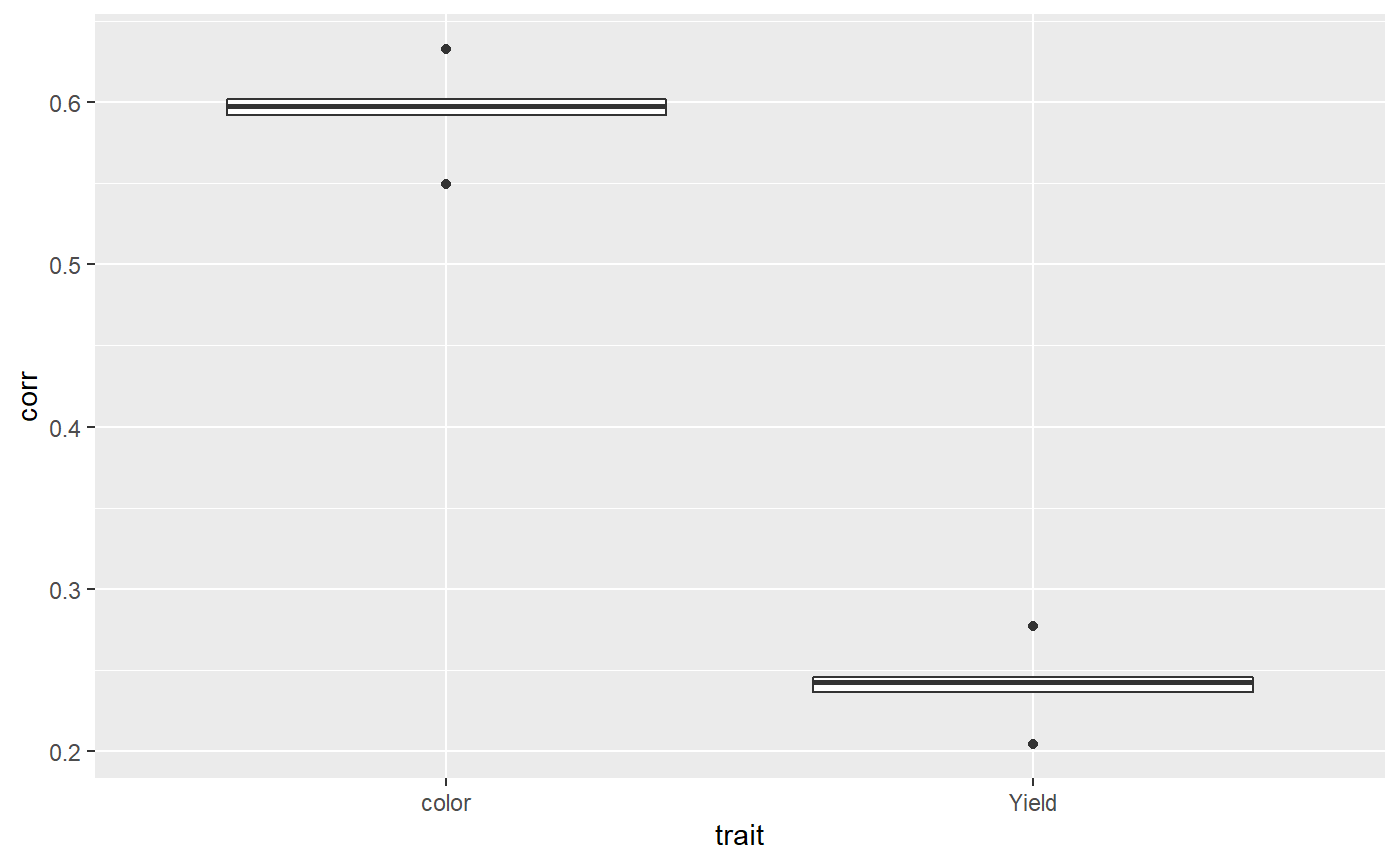
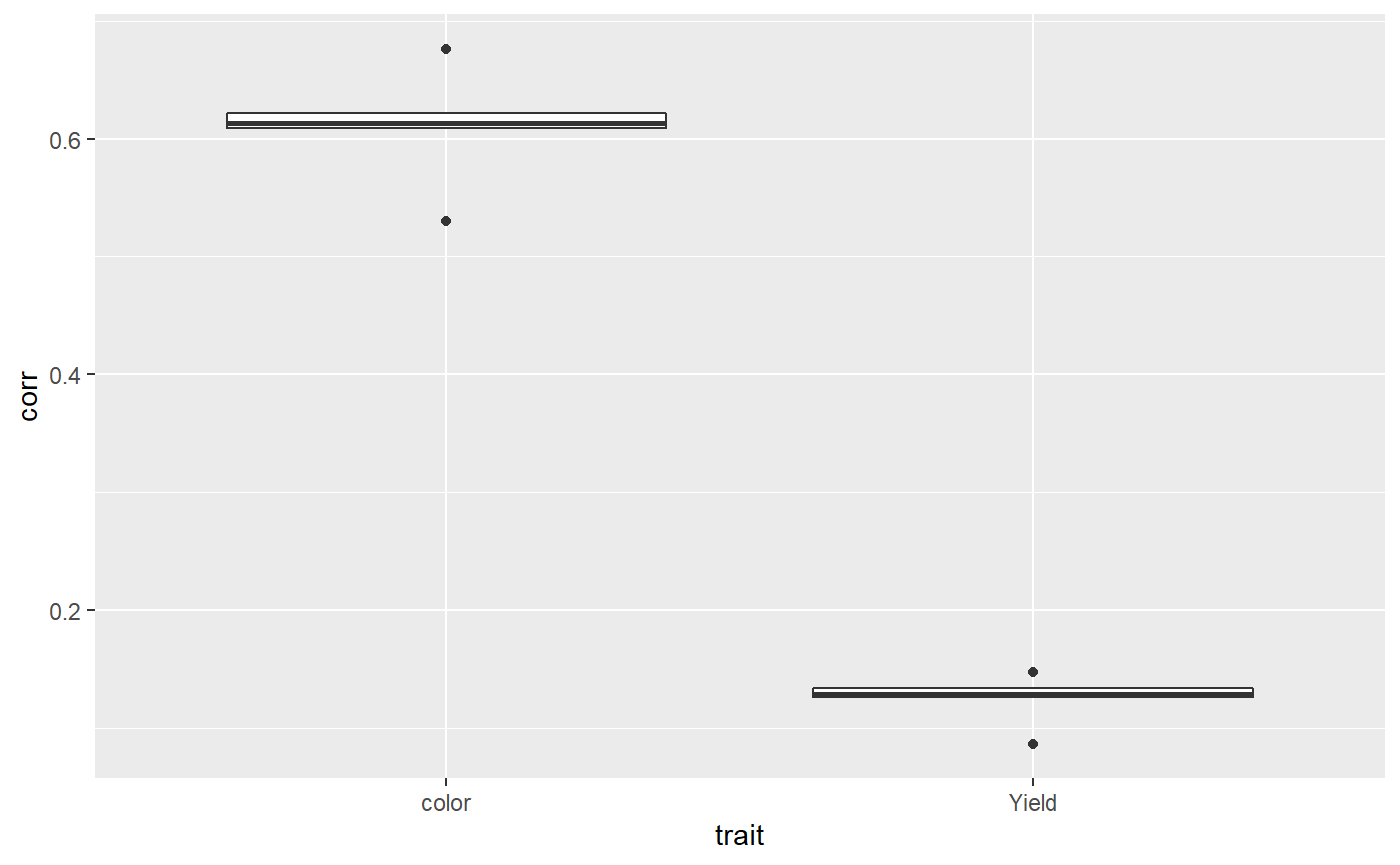
update

diff --git a/docs/articles/my-vignette.html b/docs/articles/my-vignette.html
@@ -61,7 +61,7 @@
   </a>
   <ul class="dropdown-menu" role="menu">
 <li>
-      <a href="../articles/introduction.html">introduction</a>
+      <a href="../articles/introduction.html">Shiny</a>
     </li>
     <li>
       <a href="../articles/my-vignette.html">How to start</a>
@@ -151,16 +151,16 @@
 <a class="sourceLine" id="cb5-8" title="8"><span class="co"># Yield  == 362</span></a>
 <a class="sourceLine" id="cb5-9" title="9"><span class="co"># </span></a>
 <a class="sourceLine" id="cb5-10" title="10"><span class="co"># prior trait   randomPop   hrk corr    finishedAt</span></a>
-<a class="sourceLine" id="cb5-11" title="11"><span class="co"># sommer    color   Pop_1   0.6614  0.5491  2020-03-19 14:14:40</span></a>
-<a class="sourceLine" id="cb5-12" title="12"><span class="co"># sommer    color   Pop_2   0.6118  0.5918  2020-03-19 14:14:40</span></a>
-<a class="sourceLine" id="cb5-13" title="13"><span class="co"># sommer    color   Pop_3   0.5964  0.6017  2020-03-19 14:14:40</span></a>
-<a class="sourceLine" id="cb5-14" title="14"><span class="co"># sommer    color   Pop_4   0.6809  0.5977  2020-03-19 14:14:41</span></a>
-<a class="sourceLine" id="cb5-15" title="15"><span class="co"># sommer    color   Pop_5   0.5967  0.6326  2020-03-19 14:14:41</span></a>
-<a class="sourceLine" id="cb5-16" title="16"><span class="co"># sommer    Yield   Pop_1   0.0997  0.2429  2020-03-19 14:14:42</span></a>
-<a class="sourceLine" id="cb5-17" title="17"><span class="co"># sommer    Yield   Pop_2   0.0728  0.2456  2020-03-19 14:14:42</span></a>
-<a class="sourceLine" id="cb5-18" title="18"><span class="co"># sommer    Yield   Pop_3   0.0944  0.2047  2020-03-19 14:14:42</span></a>
-<a class="sourceLine" id="cb5-19" title="19"><span class="co"># sommer    Yield   Pop_4   0.1 0.2363  2020-03-19 14:14:42</span></a>
-<a class="sourceLine" id="cb5-20" title="20"><span class="co"># sommer    Yield   Pop_5   0.0622  0.2769  2020-03-19 14:14:42</span></a>
+<a class="sourceLine" id="cb5-11" title="11"><span class="co"># sommer    color   Pop_1   0.5907  0.6218  2020-03-19 14:49:02</span></a>
+<a class="sourceLine" id="cb5-12" title="12"><span class="co"># sommer    color   Pop_2   0.5763  0.6761  2020-03-19 14:49:02</span></a>
+<a class="sourceLine" id="cb5-13" title="13"><span class="co"># sommer    color   Pop_3   0.6245  0.6089  2020-03-19 14:49:02</span></a>
+<a class="sourceLine" id="cb5-14" title="14"><span class="co"># sommer    color   Pop_4   0.6208  0.6134  2020-03-19 14:49:03</span></a>
+<a class="sourceLine" id="cb5-15" title="15"><span class="co"># sommer    color   Pop_5   0.6134  0.53    2020-03-19 14:49:03</span></a>
+<a class="sourceLine" id="cb5-16" title="16"><span class="co"># sommer    Yield   Pop_1   0.1597  0.0867  2020-03-19 14:49:03</span></a>
+<a class="sourceLine" id="cb5-17" title="17"><span class="co"># sommer    Yield   Pop_2   0.1723  0.1343  2020-03-19 14:49:04</span></a>
+<a class="sourceLine" id="cb5-18" title="18"><span class="co"># sommer    Yield   Pop_3   0.1027  0.1477  2020-03-19 14:49:04</span></a>
+<a class="sourceLine" id="cb5-19" title="19"><span class="co"># sommer    Yield   Pop_4   0.1765  0.1263  2020-03-19 14:49:04</span></a>
+<a class="sourceLine" id="cb5-20" title="20"><span class="co"># sommer    Yield   Pop_5   0.1205  0.1289  2020-03-19 14:49:04</span></a>
 <a class="sourceLine" id="cb5-21" title="21"><span class="co"># </span></a>
 <a class="sourceLine" id="cb5-22" title="22"><span class="co"># []============================ End =============================[]</span></a></code></pre></div>
 </div>

diff --git a/docs/articles/introduction.html b/docs/articles/introduction.html
@@ -5,7 +5,7 @@
 <meta charset="utf-8">
 <meta http-equiv="X-UA-Compatible" content="IE=edge">
 <meta name="viewport" content="width=device-width, initial-scale=1.0">
-<title>introduction • GS</title>
+<title>Shiny • GS</title>
 <!-- favicons --><link rel="icon" type="image/png" sizes="16x16" href="../favicon-16x16.png">
 <link rel="icon" type="image/png" sizes="32x32" href="../favicon-32x32.png">
 <link rel="apple-touch-icon" type="image/png" sizes="180x180" href="../apple-touch-icon.png">
@@ -16,7 +16,7 @@
 <script src="https://cdnjs.cloudflare.com/ajax/libs/twitter-bootstrap/3.3.7/js/bootstrap.min.js" integrity="sha256-U5ZEeKfGNOja007MMD3YBI0A3OSZOQbeG6z2f2Y0hu8=" crossorigin="anonymous"></script><!-- Font Awesome icons --><link rel="stylesheet" href="https://cdnjs.cloudflare.com/ajax/libs/font-awesome/5.11.1/css/all.min.css" integrity="sha256-PbSmjxuVAzJ6FPvNYsrXygfGhNJYyZ2GktDbkMBqQZg=" crossorigin="anonymous">
 <link rel="stylesheet" href="https://cdnjs.cloudflare.com/ajax/libs/font-awesome/5.11.1/css/v4-shims.min.css" integrity="sha256-A6jcAdwFD48VMjlI3GDxUd+eCQa7/KWy6G9oe/ovaPA=" crossorigin="anonymous">
 <!-- clipboard.js --><script src="https://cdnjs.cloudflare.com/ajax/libs/clipboard.js/2.0.4/clipboard.min.js" integrity="sha256-FiZwavyI2V6+EXO1U+xzLG3IKldpiTFf3153ea9zikQ=" crossorigin="anonymous"></script><!-- headroom.js --><script src="https://cdnjs.cloudflare.com/ajax/libs/headroom/0.9.4/headroom.min.js" integrity="sha256-DJFC1kqIhelURkuza0AvYal5RxMtpzLjFhsnVIeuk+U=" crossorigin="anonymous"></script><script src="https://cdnjs.cloudflare.com/ajax/libs/headroom/0.9.4/jQuery.headroom.min.js" integrity="sha256-ZX/yNShbjqsohH1k95liqY9Gd8uOiE1S4vZc+9KQ1K4=" crossorigin="anonymous"></script><!-- pkgdown --><link href="../pkgdown.css" rel="stylesheet">
-<script src="../pkgdown.js"></script><meta property="og:title" content="introduction">
+<script src="../pkgdown.js"></script><meta property="og:title" content="Shiny">
 <meta property="og:description" content="">
 <meta property="og:image" content="/logo.png">
 <meta name="twitter:card" content="summary">
@@ -61,7 +61,7 @@
   </a>
   <ul class="dropdown-menu" role="menu">
 <li>
-      <a href="../articles/introduction.html">introduction</a>
+      <a href="../articles/introduction.html">Shiny</a>
     </li>
     <li>
       <a href="../articles/my-vignette.html">How to start</a>
@@ -89,7 +89,7 @@
       </header><div class="row">
   <div class="col-md-9 contents">
     <div class="page-header toc-ignore">
-      <h1>introduction</h1>
+      <h1>Shiny</h1>
             
       
       <small class="dont-index">Source: <a href="https://github.com/AparicioJohan/GS/blob/master/vignettes/introduction.Rmd"><code>vignettes/introduction.Rmd</code></a></small>
@@ -99,7 +99,7 @@
 
     
     
-<div class="sourceCode" id="cb1"><pre class="sourceCode r"><code class="sourceCode r"><a class="sourceLine" id="cb1-1" title="1"><span class="kw"><a href="https://rdrr.io/r/base/library.html">library</a></span>(GS)</a></code></pre></div>
+<p><img src="../../../../OneDrive%20-%20CGIAR/2020/GS/vignettes/figures/pic1.PNG" width="50%"></p>
   </div>
 
   <div class="col-md-3 hidden-xs hidden-sm" id="pkgdown-sidebar">

diff --git a/docs/articles/index.html b/docs/articles/index.html
@@ -99,7 +99,7 @@
   </a>
   <ul class="dropdown-menu" role="menu">
     <li>
-      <a href="../articles/introduction.html">introduction</a>
+      <a href="../articles/introduction.html">Shiny</a>
     </li>
     <li>
       <a href="../articles/my-vignette.html">How to start</a>
@@ -135,7 +135,7 @@
       <p class="section-desc"></p>
 
       <ul>
-        <li><a href="introduction.html">introduction</a></li>
+        <li><a href="introduction.html">Shiny</a></li>
         <li><a href="my-vignette.html">How to start</a></li>
       </ul>
     </div>

diff --git a/docs/reference/GS_shiny.html b/docs/reference/GS_shiny.html
@@ -100,7 +100,7 @@
   </a>
   <ul class="dropdown-menu" role="menu">
     <li>
-      <a href="../articles/introduction.html">introduction</a>
+      <a href="../articles/introduction.html">Shiny</a>
     </li>
     <li>
       <a href="../articles/my-vignette.html">How to start</a>

diff --git a/docs/reference/crossGP.html b/docs/reference/crossGP.html
@@ -100,7 +100,7 @@
   </a>
   <ul class="dropdown-menu" role="menu">
     <li>
-      <a href="../articles/introduction.html">introduction</a>
+      <a href="../articles/introduction.html">Shiny</a>
     </li>
     <li>
       <a href="../articles/my-vignette.html">How to start</a>

diff --git a/docs/reference/full2sparse.html b/docs/reference/full2sparse.html
@@ -100,7 +100,7 @@
   </a>
   <ul class="dropdown-menu" role="menu">
     <li>
-      <a href="../articles/introduction.html">introduction</a>
+      <a href="../articles/introduction.html">Shiny</a>
     </li>
     <li>
       <a href="../articles/my-vignette.html">How to start</a>

diff --git a/docs/reference/index.html b/docs/reference/index.html
@@ -99,7 +99,7 @@
   </a>
   <ul class="dropdown-menu" role="menu">
     <li>
-      <a href="../articles/introduction.html">introduction</a>
+      <a href="../articles/introduction.html">Shiny</a>
     </li>
     <li>
       <a href="../articles/my-vignette.html">How to start</a>

diff --git a/docs/404.html b/docs/404.html
@@ -99,7 +99,7 @@
   </a>
   <ul class="dropdown-menu" role="menu">
     <li>
-      <a href="articles/introduction.html">introduction</a>
+      <a href="articles/introduction.html">Shiny</a>
     </li>
     <li>
       <a href="articles/my-vignette.html">How to start</a>

diff --git a/docs/authors.html b/docs/authors.html
@@ -99,7 +99,7 @@
   </a>
   <ul class="dropdown-menu" role="menu">
     <li>
-      <a href="articles/introduction.html">introduction</a>
+      <a href="articles/introduction.html">Shiny</a>
     </li>
     <li>
       <a href="articles/my-vignette.html">How to start</a>

diff --git a/docs/index.html b/docs/index.html
@@ -61,7 +61,7 @@
   </a>
   <ul class="dropdown-menu" role="menu">
 <li>
-      <a href="articles/introduction.html">introduction</a>
+      <a href="articles/introduction.html">Shiny</a>
     </li>
     <li>
       <a href="articles/my-vignette.html">How to start</a>
